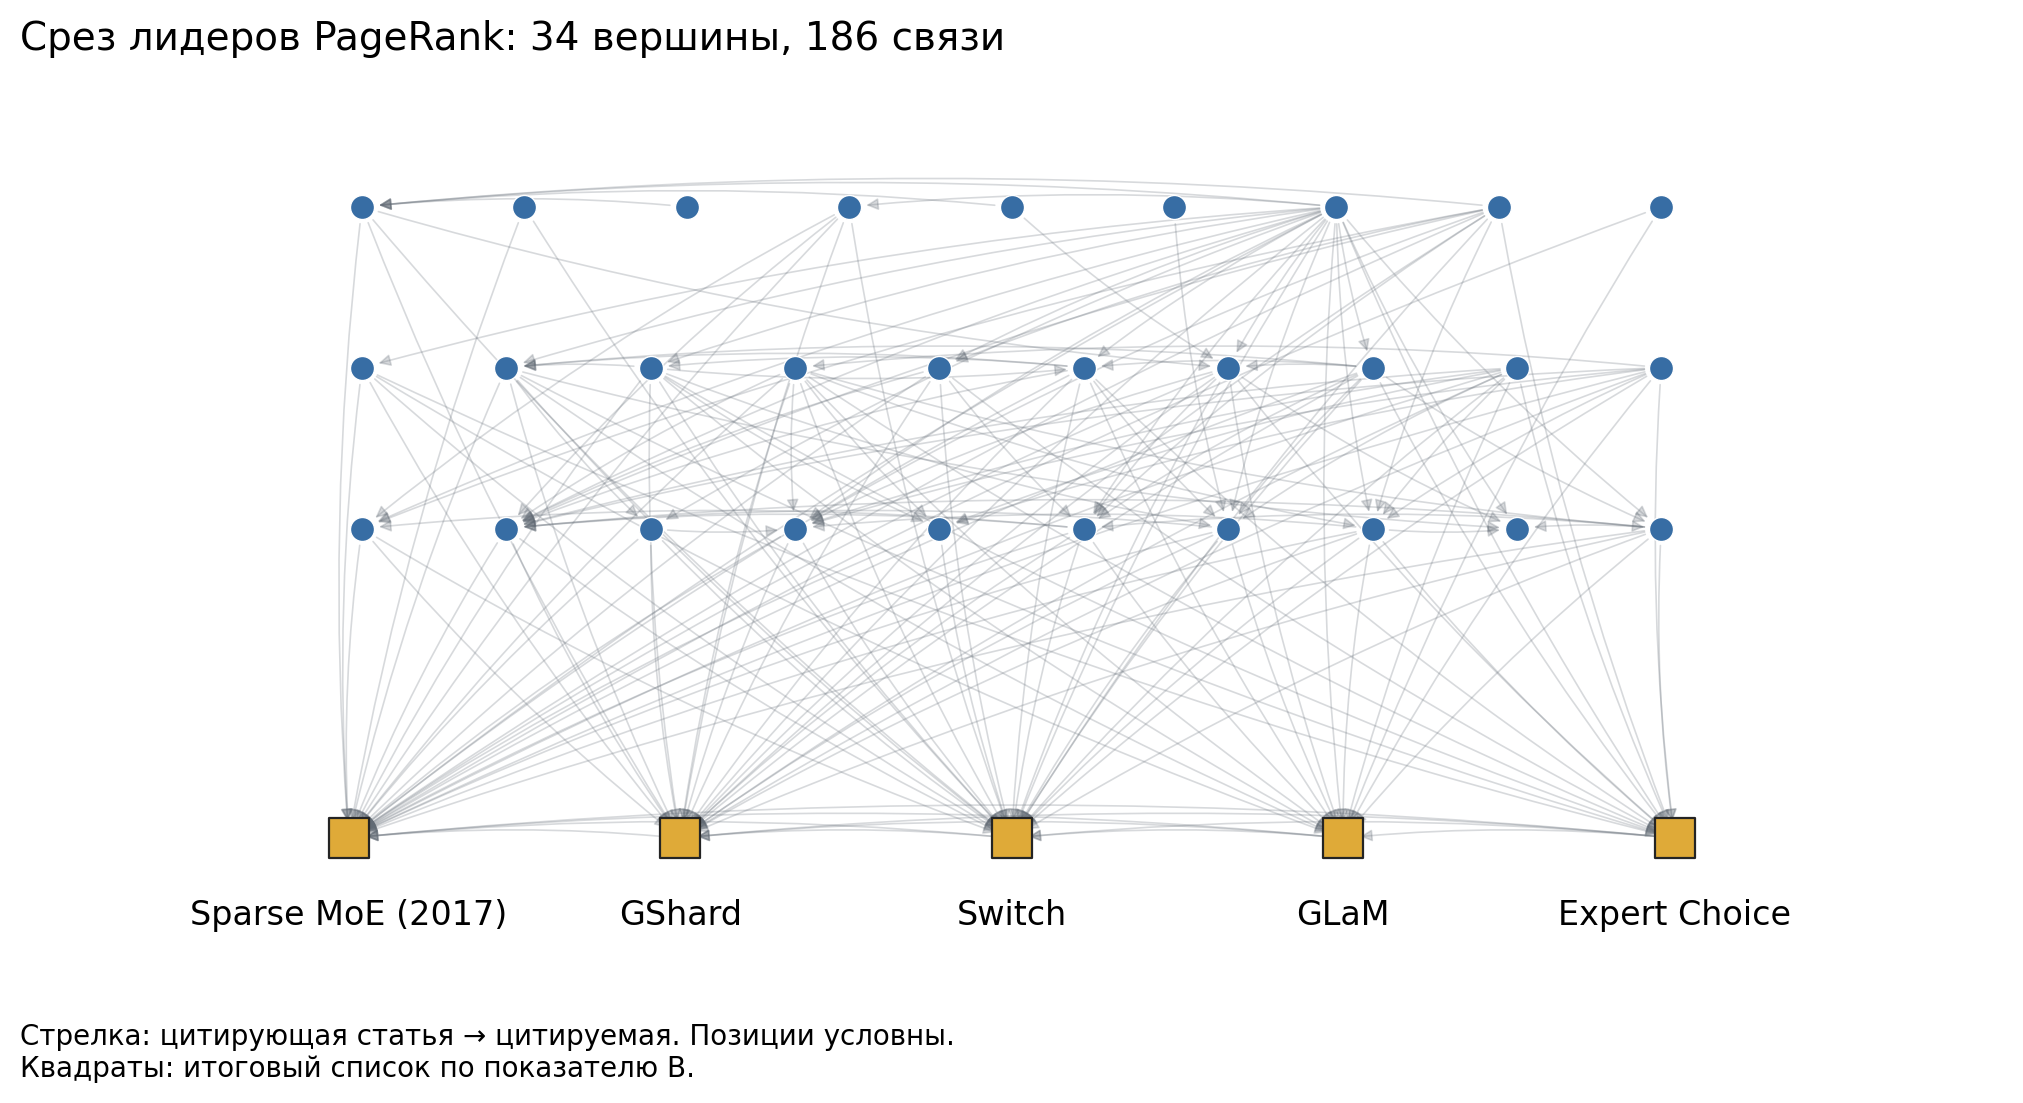
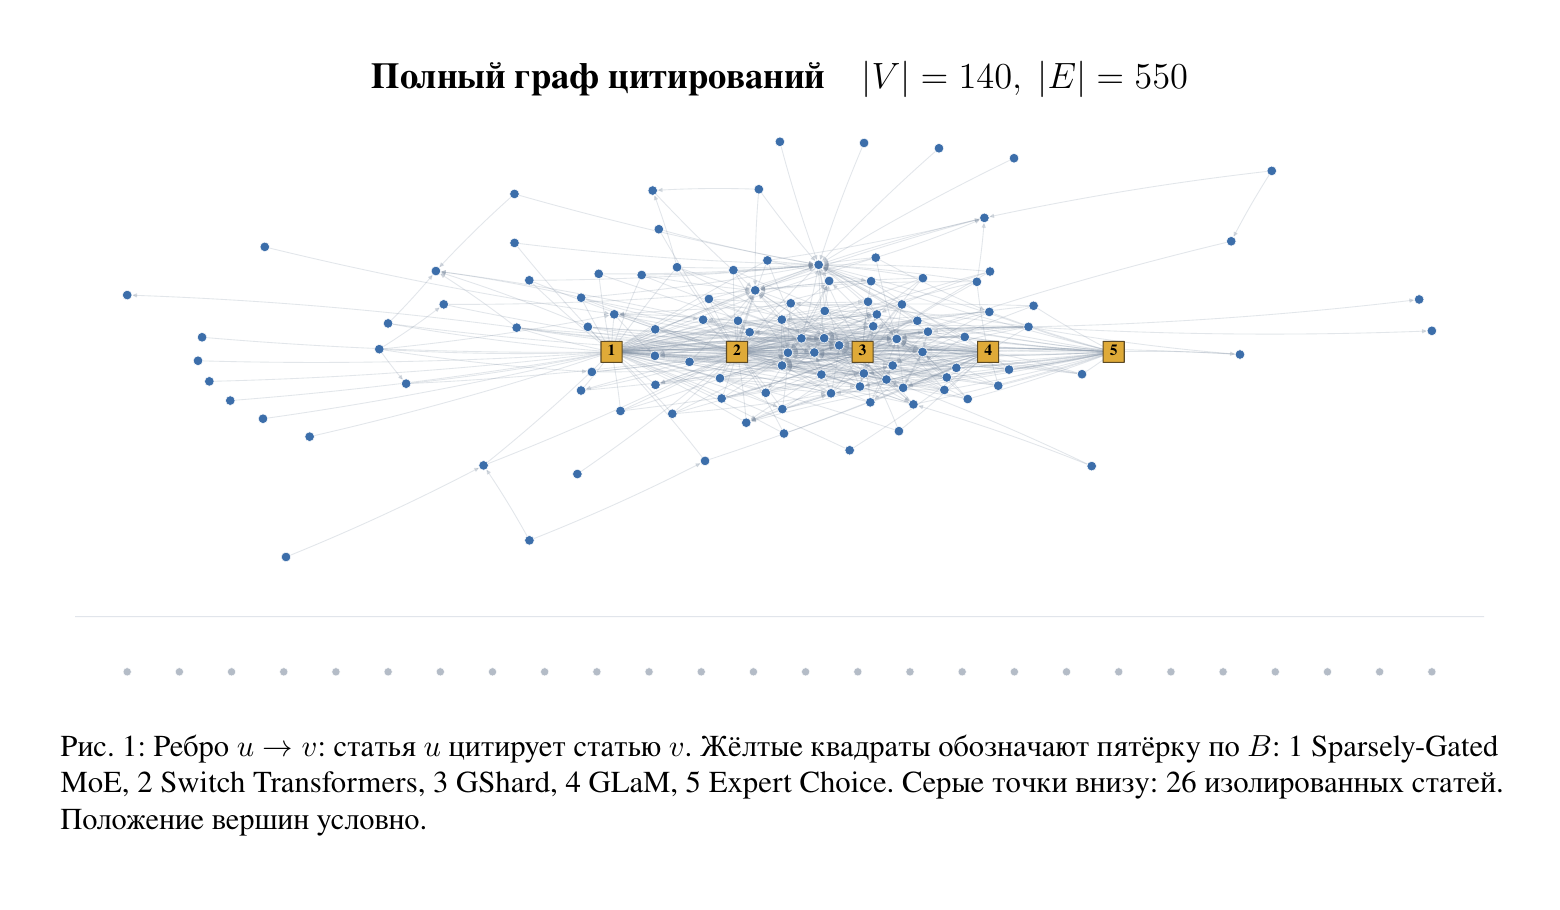
Publish the full graph with LaTeX heading and caption

diff --git a/README.md b/README.md
@@ -15,9 +15,7 @@
 
 Я собрал **140 статей за 2017-2025 годы** и построил граф из **550 связей цитирования**. По нему сравниваю, какие работы чаще цитируют и как далеко расходятся цепочки ссылок на них. Данные зафиксированы на 4 ноября 2026 года.
 
-![Построенный граф цитирований с выделенной пятёркой по показателю B](assets/citation_graph.png)
-
-На рисунке 34 статьи из среза 35 лидеров PageRank. Жёлтые квадраты выделяют пятёрку по `B`. Все расчёты выполнены на полном корпусе из 140 работ.
+![Полный граф цитирований: 140 статей, 550 связей и 26 изолированных вершин. Пятёрка по B выделена жёлтым](assets/citation_graph.png)
 
 ## Методы
 
